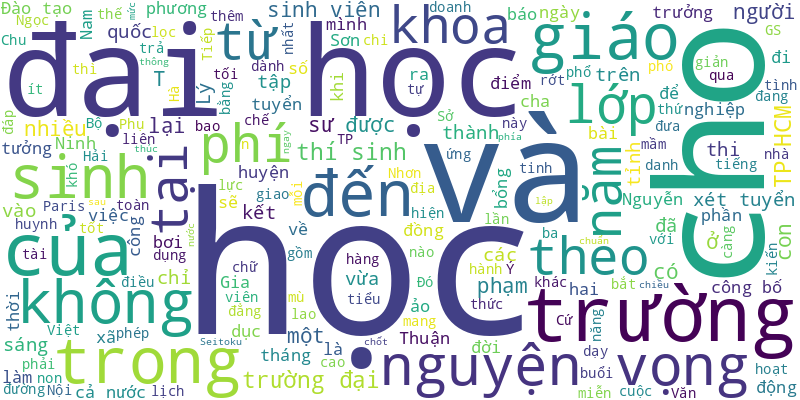
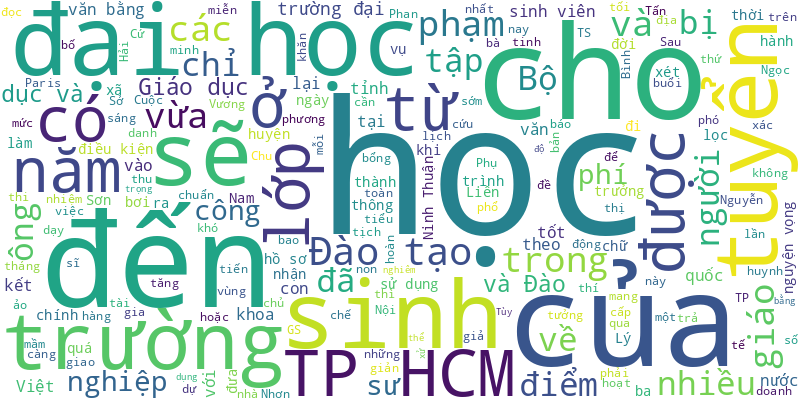
🍀 = 30%

diff --git a/README.md b/README.md
@@ -1,6 +1,15 @@
 # Tuoi Tre RSS 
 
 ## Giáo dục 
+- Tùy theo mức độ nghiêm trọng, người sử dụng bằng giả sẽ có thể bị xử phạt vi phạm hành chính hoặc truy cứu trách nhiệm hình sự.
+- Với số lượng nguyện vọng 1 tăng vọt cộng với điểm thi của thí sinh năm nay tăng, dự báo điểm chuẩn sẽ có nhiều biến động so với năm 2023.
+- Bộ Giáo dục và Đào tạo vừa có thông tin về rà soát văn bằng của ông Vương Tấn Việt và xác minh hồ sơ quá trình đào tạo tiến sĩ của ông này.
+- Cuộc thi Robocon châu Á - Thái Bình Dương 2024 sẽ có 13 đội tuyển đến từ 12 quốc gia tham dự. Các robot làm nhiệm vụ mô phỏng quá trình trồng lúa, từ gieo mạ đến thu hoạch.
+- Ông Phan Văn Mãi, chủ tịch UBND TP.HCM, chỉ đạo cần tập trung giải quyết những vướng mắc của các trường đại học, sớm hoàn thiện các khu đô thị đại học ở TP.HCM.
+- Liên quan đến vụ học sinh phải đọc được 10 chữ mới nhận hồ sơ vào lớp 1 ở Ninh Thuận,  học sinh đã được nhận hổ sơ nhập học.
+- Theo thông tư 08 của Bộ Giáo dục và Đào tạo, người học sử dụng hồ sơ, văn bằng, chứng chỉ giả làm điều kiện trúng tuyển hoặc điều kiện tốt nghiệp sẽ bị buộc thôi học; văn bằng tốt nghiệp nếu đã được cấp sẽ bị thu hồi, hủy bỏ.
+- Sau khi nghiên cứu, cô Thùy tìm cách đưa thiết bị lọc nước về vùng sâu vùng xa, nơi bà con đang gặp vấn đề về nguồn nước và kinh tế còn khó khăn.
+- Sở Giáo dục và Đào tạo TP.HCM vừa có văn bản báo cáo Ban Tôn giáo Chính phủ - Bộ Nội vụ về xác minh văn bằng tốt nghiệp cấp ba bổ túc văn hóa của ông Vương Tấn Việt (thượng tọa Thích Chân Quang).
 - Nhiều trường đại học phía Nam sẽ công bố điểm chuẩn vào chiều tối 17-8, ngay sau khi kết thúc lọc ảo nguyện vọng xét tuyển đại học 2024.
 - Nhiều địa phương trong cả nước đã "chốt" mức học phí cho năm học 2024-2025 từ mầm non đến phổ thông công lập.
 - Trường đại học Sư phạm Hà Nội vừa có buổi làm việc với Đại học Seitoku, Nhật Bản, nhằm liên kết hai trường trong đào tạo ngành sư phạm mầm non.
@@ -22,47 +31,38 @@
 - Chuyến đi theo 'Lớp học tử tế' tưởng cho vui ấy lại mang đến cho mình câu trả lời cho nỗi hoang mang của cuộc đời...
 - 'Không nên quá nhiều phương thức xét tuyển, càng đơn giản càng tốt, tạo thuận lợi cho thí sinh và xã hội', Bộ trưởng Nguyễn Kim Sơn nhấn mạnh.
 - Ông Nguyễn Văn Hiếu, giám đốc Sở Giáo dục và Đào tạo TP.HCM, khẳng định đến thời điểm hiện tại Trường quốc tế AISVN chưa đủ điều kiện hoạt động trở lại.
-- Học viên theo học văn bằng 2 tại Trường đại học Duy Tân không đồng tình với lý giải lệ phí 900.000 đồng từ trường này dành cho việc làm phôi và in bằng tốt nghiệp.
-- Theo báo cáo, các trường đại học, cao đẳng tại TP.HCM hiện đang đáp ứng khoảng 85% nhu cầu lao động của thành phố.
-- Đó là số ý tưởng, sáng kiến của học sinh cả nước gửi về cuộc thi 'Sáng kiến đảm bảo trật tự trường học về phòng ngừa bạo lực học đường và lao động trẻ em'.
-- Theo thống kê, chỉ trong 7 tháng đầu năm 2024, 67 cơ sở giáo dục đại học đã công bố hơn 10.000 bài báo khoa học trên Scopus, chiếm 84,45% số bài báo của cả nước.
-- Bài thi đánh giá năng lực của Đại học Quốc gia Hà Nội gồm hai phần thi bắt buộc và một phần thi cho phép thí sinh lựa chọn khoa học hoặc tiếng Anh.
-- PGS.TS Nguyễn Thu Thủy cho rằng vẫn còn trường có nhiều phương thức xét tuyển phức tạp, trong khi khó dự đoán lượng thí sinh ảo.
-- Điều lạ lùng là không ít thí sinh mong muốn rớt nguyện vọng 1. Bởi đó là nguyện vọng của cha mẹ, của người khác chứ không phải của mình.
-- Gia đình người cha mù, mẹ thiểu năng có thêm cô con gái thứ hai theo chị vào đại học. Một lần nữa, người cha lại gọi điện, thiết tha xin suất học bổng Tiếp sức đến trường cho con đến giảng đường.
-- "Có bạn nào đang lo không trượt nguyện vọng 1 như mình không?" - một thí sinh chia sẻ trên diễn đàn dành cho học sinh, sinh viên. Một thí sinh khác hỏi tiếp làm thế nào rớt nguyện vọng 1 để được vô nguyện vọng 2?
 ![Edu](Edu.png)
 ## Thời Sự 
-- Tin tức đáng chú ý: 11.220 người sẽ tham gia diễu binh, diễu hành ngày kỷ niệm 50 năm thống nhất đất nước 30-4-2025; Thủ tướng yêu cầu tập trung ứng phó nguy cơ mưa lũ, sạt lở đất, lũ quét tại Bắc Bộ...
-- Có cơ sở pháp lý để xử lý hành vi vẽ bậy từ phạt hành chính đến hình sự. Tuy nhiên, hiện nay mức xử phạt vi phạm hành chính đối với hành vi nêu trên còn nhẹ, chưa đủ sức răn đe đối với người vẽ bậy.
-- Hôm nay thời tiết Bắc Bộ tiếp tục có những cơn mưa to đến rất to. Trung Bộ nắng nóng còn Nam Bộ mưa tăng thêm.
-- Thường trực Ban Bí thư đề nghị Ban Chỉ đạo rà soát lại công tác chuẩn bị, theo sự phân công, cụ thể hóa kết luận của Ban Bí thư, hướng dẫn số 69; nêu ra khó khăn, bất cập trong quá trình thực hiện.
-- Cao tốc Dầu Giây - Tân Phú sẽ nối vào điểm cuối cao tốc TP.HCM - Long Thành - Dầu Giây kéo dài hướng lên Lâm Đồng với chiều dài 60,2km.
-- Cư dân đang ngủ bỗng dưng nước tràn vào căn hộ làm hư hỏng đồ đạc. Thang máy chung cư cũng hư nhiều ngày, cả ngàn người phải xếp hàng chờ hoặc đi thang bộ.
-- Lực lượng cảnh sát giao thông TP Vinh xác định tài xế xe sang Rolls-Royce xi nhan trái nhưng đi thẳng không có lỗi, nên không có căn cứ để xử lý.
-- Ngày 12-8, UBND TP.HCM đã có báo cáo gửi Thủ tướng đề xuất các cơ chế, chính sách đặc thù áp dụng chung cho toàn tuyến vành đai 4 TP.HCM.
-- UBND TP.HCM kiến nghị Thủ tướng có ý kiến để các nhà thầu, tư vấn tích cực phối hợp với chủ đầu tư tuyến metro số 1 trong đào tạo nhân sự, công tác vận hành thử...
-- Chiều 12-8, hàng trăm xe máy, ô tô kẹt cứng tại giao lộ Phan Thúc Duyện - Thăng Long sau khi qua hầm chui Trần Quốc Hoàn vì đường nối chưa cho đi.
-- Chiều 12-8, UBND tỉnh Bình Định và UBND tỉnh Gia Lai đã có buổi làm việc trực tuyến với Bộ Giao thông vận tải để bàn về kế hoạch, phương án đầu tư cao tốc Quy Nhơn - Pleiku.
-- Chiều 12-8, Công an huyện Hàm Tân, tỉnh Bình Thuận phối hợp với các đơn vị liên quan khám nghiệm hiện trường và tử thi liên quan vụ đuối nước của hai cha con.
-- Rạng sáng, tiếng của chỉ huy ban chuyên án vang lên như tiếng súng hiệu lệnh. Mọi người nhanh chóng lên xe đang chờ sẵn hướng vào khu kinh tế Tam Giác Vàng để phá chuyên án lừa đảo quy mô lớn.
-- Đoàn công tác tỉnh Bình Dương làm việc trực tiếp tại trụ sở nhiều tập đoàn quốc tế. Sau Lego, nhiều 'đại bàng' là các tập đoàn, viện nghiên cứu lớn có lời hẹn sẽ đầu tư, hợp tác với tỉnh này.
-- Nhiều người trẻ có suy nghĩ phải mua nhà trước khi kết hôn hoặc sinh con, nhưng giá nhà đất tăng vọt, họ phải “cày ngày cày đêm" để có thể mua được nhà nên đã bỏ qua thời điểm vàng để lập gia đình, sinh con.
-- Nhiều ý kiến phản biện về bảng giá đất điều chỉnh dự kiến của TP.HCM cho rằng cần có thời gian, lộ trình để điều chỉnh cho phù hợp, chưa cần thiết ban hành thời điểm này.
-- Nhóm 10 ngân hàng tư nhân lọt top 100 doanh nghiệp tư nhân nộp ngân sách lớn nhất năm 2023 đã nộp ngân sách 36.800 tỉ đồng, trong đó có những cái tên đáng chú ý như Techcombank, VPBank, VIB, SHB, HDBank.
-- Phó bí thư thường trực Tỉnh ủy Quảng Ninh Trịnh Thị Minh Thanh được phân công điều hành công việc của Tỉnh ủy, sau khi ông Nguyễn Xuân Ký, bí thư Tỉnh ủy, có đơn xin thôi giữ các chức vụ.
-- Tại kỳ họp thứ 7 vừa qua, Quốc hội đã thông qua Luật Trật tự, an toàn giao thông đường bộ, có hiệu lực thi hành từ 1-1-2025.
-- Trước tình trạng thiếu hụt hàng ngàn giáo viên, tỉnh Gia Lai đề nghị giao thêm chỉ tiêu tuyển dụng và không tinh giản biên chế để đáp ứng việc dạy và học.
-- TP.HCM đã có 16 quận, huyện, TP Thủ Đức xác định có ca bệnh sởi, trong đó có 9 quận, huyện đủ điều kiện công bố dịch sởi khi xuất hiện 2 ca bệnh trở lên.
-- Khu đất rộng khoảng 3.000m² ở xã Vĩnh Lộc A, huyện Bình Chánh, TP.HCM hiện có hàng trăm huyệt mộ bên trên, người dân lo ngại an toàn nguồn nước và vệ sinh môi trường.
-- Ngày 12-8, UBND tỉnh Kiên Giang cho biết ông Lâm Minh Thành - chủ tịch UBND tỉnh này - ký quyết định thành lập tổ công tác giải quyết tranh chấp, khiếu nại đất đai, tài nguyên khoáng sản, trật tự xây dựng tại địa phương.
-- Đèo Prenn Đà Lạt phải phân luồng một đoạn để xử lý tình trạng lún, nứt đường có nguy cơ lan rộng.
-- Theo Cổng thông tin điện tử Đảng bộ tỉnh Tuyên Quang, bà Lê Thị Kim Dung, phó bí thư thường trực Tỉnh ủy, được phân công điều hành công việc của Tỉnh ủy Tuyên Quang.
-- Thời gian tới, tỉnh Tây Ninh sẽ hoàn thiện hồ sơ, trình Thủ tướng phê duyệt đề án phân loại đô thị và công nhận thành phố Tây Ninh là đô thị loại II.
-- Sáng 12-8, tại Phủ Chủ tịch, Tổng Bí thư, Chủ tịch nước Tô Lâm đã tiếp đại sứ các nước Đức, Triều Tiên, Thụy Điển, Argentina và Algeria đến trình quốc thư.
-- UBND tỉnh Lâm Đồng yêu cầu Sở Tài nguyên và Môi trường kiểm điểm các cá nhân liên quan việc áp dụng đơn giá sai trong quá trình thực hiện công tác.
-- Đại tá Trần Văn Phúc, giám đốc Công an tỉnh Thái Bình, được điều động làm giám đốc Công an tỉnh Quảng Ninh thay thiếu tướng Đinh Văn Nơi - người vừa được bộ trưởng Bộ Công an điều động giữ chức cục trưởng Cục An ninh chính trị nội bộ.
-- Những ngày qua thời tiết Nam Bộ và TP.HCM có đợt giảm mưa giữa mùa mưa, thời tiết có phần oi bức với nền nhiệt cao, nguyên nhân do đâu?
+- Ông Nguyễn Đức Dũng, phó bí thư thường trực Tỉnh ủy Quảng Nam, được bầu làm chủ tịch HĐND tỉnh Quảng Nam.
+- Ngày 13-8, Công ty TNHH MTV Công viên cây xanh TP.HCM bắt đầu tổng kiểm tra hệ thống cây lâu năm tại các công viên công cộng và đường phố.
+- Cho rằng bản án 3 năm tù vì vi phạm quy định giao thông của mình là quá nặng nên Trần Văn Tuân nảy sinh ý định đâm trọng thương vị phó chánh án huyện đã tuyên án để trả thù.
+- Một số tin tức đáng chú ý: Doanh nghiệp vay nợ gần 8 tỉ USD qua trái phiếu; Thêm cổ phiếu 'ông lớn' điện lực vào diện cắt ký quỹ; Lao động Việt tại khu vực động đất ở Nhật Bản cần chú ý gì?...
+- Hôm nay 14-8, thời tiết ba miền có sự phân hóa rõ rệt, trong khi Bắc Bộ mưa dông thì Trung Bộ, Nam Bộ ngày nắng, có nơi nắng gay gắt.
+- Tổng Bí thư, Chủ tịch nước Tô Lâm nhấn mạnh việc kiên định lập trường, quan điểm và thực hành dân là gốc, nhân dân là chủ thể, trung tâm của công cuộc đổi mới.
+- Xe cẩu trong lúc dọn dẹp giàn khoan giếng đã vi phạm khoảng cách an toàn dẫn tới sự cố phóng điện, hơn 140.000 khách hàng mất điện đột ngột.
+- Một người đàn ông bất ngờ bơi ra giữa hồ Xuân Hương Đà Lạt rồi chìm. Lực lượng cứu hộ mất hơn 3 giờ mới tìm thấy thi thể.
+- Sau vụ ô tô cán chết hai mẹ con trên đường Mỹ Phước - Tân Vạn, cảnh sát giao thông Bình Dương tăng cường xử phạt các trường hợp ô tô lấn làn xe máy, vẫn còn nhiều trường hợp vi phạm.
+- Bảng giá đất thấp, một bộ phận người dân đóng thuế thấp nhưng toàn bộ người dân bị thu hồi đất sẽ chịu thiệt thòi.
+- Sở Giao thông vận tải TP.HCM đề nghị lực lượng chức năng xử lý nghiêm các trường hợp xe buýt hai tầng vi phạm các quy định.
+- Từ khoảng 17h chiều nay 13-8, mây dông kéo về trung tâm Hà Nội khiến trời tối sầm lại và đang mưa to ở một số quận nội thành, nhiều người đi đường phải bật đèn xe để di chuyển.
+- Ủy ban Thường vụ Quốc hội quyết định cho thôi làm nhiệm vụ đại biểu Quốc hội khóa XV đối với ông Đặng Quốc Khánh, Chẩu Văn Lâm.
+- Ngày 13-8, Tòa án nhân dân tỉnh Thừa Thiên Huế đã tiến hành xét xử vụ án mua bán thận.
+- Một người đàn ông ở Quảng Ninh mua lô hàng bong bóng cá lạc qua Zalo và bị một thanh niên lừa đảo lấy hơn 230 triệu đồng.
+- Hàng trăm công nhân Công ty Bo Hsing, huyện Long Hồ, tỉnh Vĩnh Long nhập viện với các triệu chứng nôn ói, đau bụng, tiêu chảy… nghi do ngộ độc thực phẩm.
+- Người dân TP.HCM đồng thuận đặt tên đường Đỗ Mười, Lê Khả Phiêu
+- Bộ Chính trị quyết định kỷ luật cảnh cáo Phó thủ tướng Lê Minh Khái. Ban Bí thư quyết định khai trừ khỏi Đảng 10 cán bộ.
+- Hai dự án điện gió ở Gia Lai sau khi được cấp chủ trương đầu tư, chưa hoàn thành thủ tục đất đai, đã bán cổ phần.
+- Mới đây, nhiều bạn đọc của Tuổi Trẻ Online liên tiếp phản ánh tình trạng rác thải tồn đọng nhiều nơi tại TP.HCM, gây mất mỹ quan đô thị, ảnh hưởng đến sức khỏe.
+- Một công ty ở Nghệ An mới được cấp chủ trương khai thác cát theo cơ chế đặc thù phục vụ cao tốc đã ầm ầm khai thác cát, dù thiếu rất nhiều thủ tục cần thiết.
+- Vietnam Airlines sẽ tăng chuyến để tăng gần 500.000 vé máy bay trên các chuyến bay dịp Quốc khánh 2-9, từ ngày 30-8 đến ngày 4-9-2024.
+- Chánh án Nguyễn Hòa Bình cho hay dự luật quy định cả 2 mô hình trại giam riêng hoặc phân trại riêng cho người chưa thành niên trong trại giam.
+- Liên quan vụ tai nạn liên hoàn trên cầu Phú Mỹ (TP Thủ Đức, TP.HCM), có hai công nhân quét dọn cũng bị các xe va trúng, một người văng qua con lươn, hiện đang điều trị tại bệnh viện.
+- Công ty TNHH MTV Công viên cây xanh TP.HCM kiểm tra, cắt tỉa nhiều cây xanh lâu năm ở công viên Tao Đàn, quận 1 ngày 13-8.
+- Bệnh viện Bãi Cháy (Quảng Ninh) cho biết đang tiếp nhận điều trị 4 trường hợp mắc bệnh Whitmore (còn gọi là bệnh vi khuẩn ăn thịt người), với biểu hiện lâm sàng rất đa dạng.
+- 6 tháng đầu năm 2024, khu vực biên giới tỉnh Đồng Tháp (TP Hồng Ngự, huyện Hồng Ngự, huyện Tân Hồng) đạt kim ngạch xuất nhập khẩu 304 triệu USD, tăng 97% so với cùng kỳ.
+- Bảy người rủ nhau đi xem sao băng tại Vườn quốc gia Tam Đảo (Vĩnh Phúc). Hai thanh niên về trước, khi băng qua suối bất ngờ bị lũ ống cuốn trôi.
+- Quyền chủ tịch UBND tỉnh Đồng Nai chỉ đạo các đơn vị, địa phương phải tập trung xử lý dứt điểm công tác giải phóng mặt bằng đối với 2 dự án trọng điểm quốc gia là cao tốc Biên Hòa - Vũng Tàu và vành đai 3 TP.HCM.
+- Sau phản ánh của Tuổi Trẻ Online về khu đất có hàng trăm ngôi mộ tự phát, UBND xã Vĩnh Lộc A (Bình Chánh, TP.HCM) đã cắm biển cấm chôn cất, làm nghĩa địa tại khu đất 3.000m2 có hàng trăm huyệt mộ.
 ![New](News.png)
 ## Nhịp sống số 
 - Theo Open AI, việc giao tiếp nhiều với ChatGPT có thể khiến người dùng trở nên kém khéo léo hoặc ít muốn tương tác với con người hơn.
